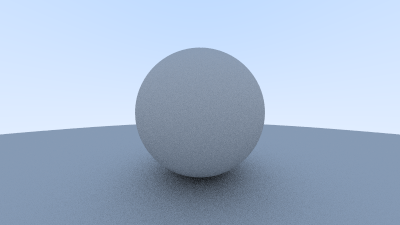
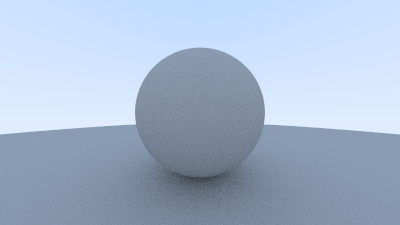
metal

Changed region(s): [[0.39, 0.7467, 0.6, 0.8711]]

diff --git a/src/utility/hittable.ts b/src/utility/hittable.ts
@@ -13,20 +13,20 @@ export class HitRecord {
    * 光线击中时对应的t
    */
   t: number;
-  //   /**
-  //    * 光线在物体外部设为true，反之为false
-  //    */
-  //   isFrontFace: boolean;
-  //   /**
-  //    *
-  //    * @ 判定光线在物体内还是物体外，修正法线方向朝外，
-  //    */
-  //   setFaceNormal(r: Ray, outward_normal: Vec3): void {
-  //     this.isFrontFace = r.dir.dot(outward_normal) < 0;
-  //     this.normal = this.isFrontFace
-  //       ? outward_normal
-  //       : Vec3.negative(outward_normal);
-  //   }
+  /**
+   * 光线在物体外部设为true，反之为false
+   */
+  isFrontFace: boolean;
+  /**
+   *
+   * @ 判定光线在物体内还是物体外，修正法线方向朝外，
+   */
+  setFaceNormal(r: Ray, outward_normal: Vec3): void {
+    this.isFrontFace = r.dir.dot(outward_normal) < 0;
+    this.normal = this.isFrontFace
+      ? outward_normal
+      : Vec3.negative(outward_normal);
+  }
   //   constructor() {
   //     //this.p=new Vec3();
   //     //this.isFrontFace=false;

diff --git a/src/utility/sphere.ts b/src/utility/sphere.ts
@@ -21,14 +21,16 @@ export class Sphere implements Hittable {
       if (temp < tmax && temp > tmin) {
         rec.t = temp;
         rec.p = r.at(temp);
-        rec.normal = rec.p.minus(this.center).devide(this.radius);
+        let out_normal = rec.p.minus(this.center).devide(this.radius);
+        rec.setFaceNormal(r, out_normal);
         return true;
       }
       temp = (-1 * b + Math.sqrt(iDiscriminant)) / a;
       if (temp < tmax && temp > tmin) {
         rec.t = temp;
         rec.p = r.at(temp);
-        rec.normal = rec.p.minus(this.center).devide(this.radius);
+        let out_normal = rec.p.minus(this.center).devide(this.radius);
+        rec.setFaceNormal(r, out_normal);
         return true;
       }
     }

diff --git a/src/material/metal.ts b/src/material/metal.ts
@@ -1,0 +1,23 @@
+import { Color } from "../utility/color";
+import { HitRecord } from "../utility/hittable";
+import { Ray } from "../utility/ray";
+import { Vec3 } from "../utility/vec3";
+import { Material } from "./material";
+
+export class Metal implements Material {
+  albedo: Color;
+  constructor(a: Color) {
+    this.albedo = a;
+  }
+  scatter(
+    rayIn: Ray,
+    rec: HitRecord,
+    attenuation: Color,
+    rayScattered: Ray
+  ): boolean {
+    let reflected = Vec3.reflect(rayIn.dir.unit_vector, rec.normal);
+    let scattered = new Ray(rec.p, reflected);
+    attenuation = this.albedo;
+    return scattered.dir.dot(rec.normal) > 0;
+  }
+}

diff --git a/src/material/material.ts b/src/material/material.ts
@@ -1,0 +1,12 @@
+import { Color } from "../utility/color";
+import { HitRecord } from "../utility/hittable";
+import { Ray } from "../utility/ray";
+
+export interface Material {
+  scatter(
+    rayIn: Ray,
+    rec: HitRecord,
+    attenuation: Color,
+    rayScattered: Ray
+  ): boolean;
+}

diff --git a/src/utility/vec3.ts b/src/utility/vec3.ts
@@ -78,4 +78,7 @@ export class Vec3 {
       return temp;
     }
   }
+  static reflect(vecIn: Vec3, n: Vec3): Vec3 {
+    return vecIn.minus(n.multiply(2 * vecIn.dot(n)));
+  }
 }
